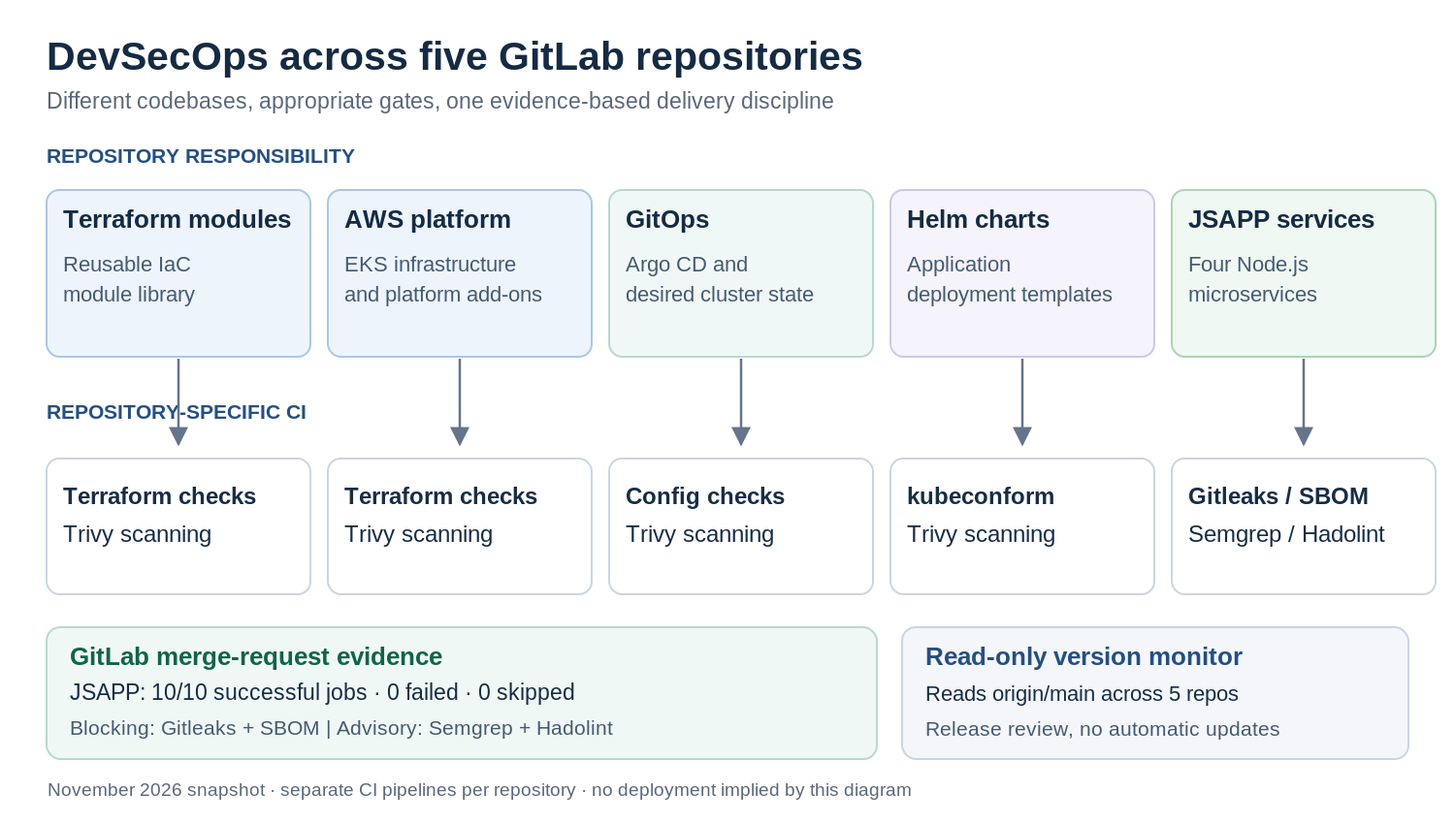
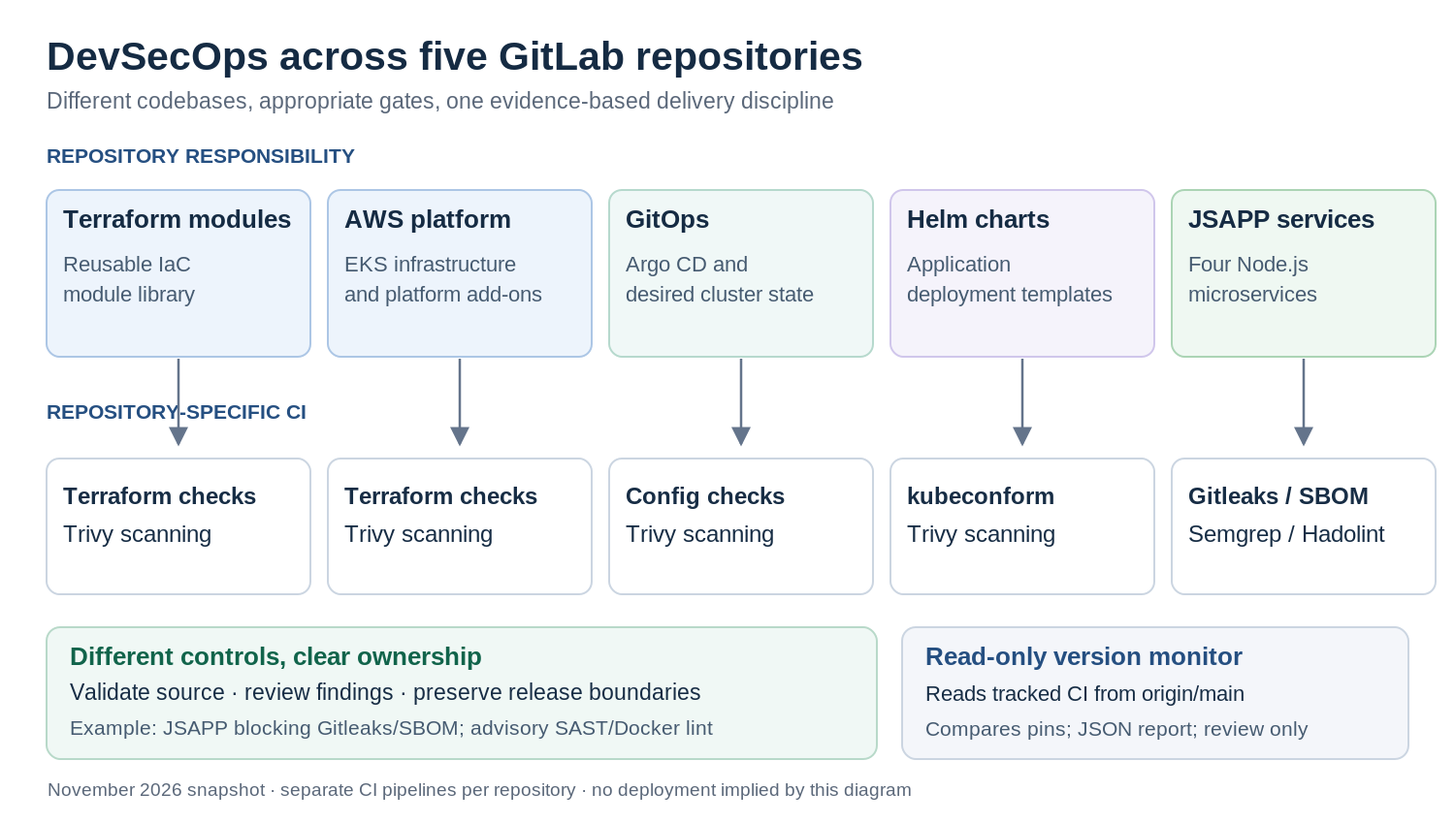
docs: expand DevSecOps case study with pipeline controls and version monitoring

Changed region(s): [[0.0307, 0.7647, 0.4907, 0.9176], [0.644, 0.8259, 0.8893, 0.9176]]

diff --git a/case-studies/gitlab-devsecops-five-repositories/README.md b/case-studies/gitlab-devsecops-five-repositories/README.md
@@ -1,152 +1,210 @@
-# Building DevSecOps Gates Across Five GitLab Repositories
+# Engineering DevSecOps Pipelines Across Five GitLab Repositories
 
-> A security baseline that preserves existing Terraform, GitOps and semantic-version release responsibilities
+> Five different delivery responsibilities, five fit-for-purpose CI baselines, and one read-only scanner-version monitor
 
-![Five GitLab repositories with repository-specific security checks, independent merge gates and a read-only tool-version monitor](assets/devsecops-five-repositories.png)
+![Repository-specific CI controls across Terraform modules, AWS platform, GitOps, Helm and Node.js services, plus an independent version monitor](assets/devsecops-five-repositories.png)
 
 ## Context
 
-The [JSAPPINF platform](https://github.com/jansoltys9/jsappinf-platform-portfolio) spans five repositories with different responsibilities: reusable Terraform modules, AWS platform infrastructure, Kubernetes GitOps configuration, Helm charts and four Node.js microservices. The existing CI/CD system already supported repository-specific validation and an application release flow. The task was to add **consistent, evidence-based security checks** without turning every repository into an identical pipeline or making CI mutate infrastructure.
+[JSAPPINF](https://github.com/jansoltys9/jsappinf-platform-portfolio) separates reusable Terraform modules, AWS platform infrastructure, Kubernetes desired state, application Helm charts and Node.js microservices into **five private GitLab repositories**. The practical DevSecOps objective was not to copy one security workflow everywhere. It was to make each pipeline check the types of defects that matter for its repository, while keeping infrastructure changes, image publication and GitOps promotion outside routine security validation.
 
-The implementation was intentionally compatible with **GitLab Free**, pinned scanner versions and the existing separation between CI execution, release decisions and GitOps reconciliation.
+The solution uses **GitLab Free**, pinned tool versions, reviewable merge-request jobs and a separate local Python inventory that tracks scanner-version drift. The public case study describes the controls and engineering trade-offs; it does not publish private CI configuration, credentials or runtime settings.
 
-**Evidence boundary:** this case study is based on supplied GitLab merge and pipeline results, local security-scan outputs and the five-repository monitor run of 19 November 2026. The author did not independently re-run a deployed EKS environment or inspect live production security settings for this review. A successful scan job is evidence that the configured job completed, not proof that an entire platform is vulnerability-free.
+**Evidence boundary:** the control descriptions come from the recorded project implementation, supplied job metadata and the locally executed version monitor in November 2026. Detailed CI job definitions were not independently retrieved for every repository during this write-up. Where the exact job name or enforcement policy was not evidenced, the text describes the control's purpose without claiming an unverified blocking gate. Passing CI is not a production security certification.
 
 ## Original State
 
-The repositories had different development and delivery concerns:
+The delivery responsibilities were deliberately separated:
 
-| Repository | Primary responsibility | Relevant verification domain |
+| Repository | Owns | Typical failure to catch before merge |
 |---|---|---|
-| `terraform-modules` | Reusable infrastructure modules | Terraform validation and infrastructure/security analysis |
-| `jsappinf-platform` | AWS EKS and platform infrastructure | Terraform validation and IaC/secret analysis |
-| `jsappinf-gitops` | Argo CD Applications and desired cluster state | GitOps configuration and security scanning |
-| `helmchartsappjs` | Application Helm charts | Chart/Kubernetes schema validation and scanning |
-| `JSAPP` | UI, user, product and order microservices | Service tests, secrets, code, Dockerfiles and software inventory |
+| `terraform-modules` | Reusable Terraform module interfaces | Invalid HCL, broken module validation, leaked credentials, dangerous IaC patterns |
+| `jsappinf-platform` | AWS/EKS foundation and platform add-ons | Invalid Terraform composition, unwanted CI infrastructure actions, secrets and IaC risks |
+| `jsappinf-gitops` | Argo CD desired state for environments | Risky or inconsistent GitOps configuration and committed secrets |
+| `helmchartsappjs` | Reusable Kubernetes application charts | Invalid rendered Kubernetes resources or unsafe configuration |
+| `JSAPP` | UI, user, product and order Node.js services | Service contract regressions, exposed secrets, source-code/Dockerfile findings and missing inventory |
 
-The challenge was **coverage consistency and maintainability**, not a claim that the repositories had no testing or security controls beforehand. The existing application flow used semantic versions, image builds and a separate GitOps promotion step; those responsibilities were retained.
+The application release path already used service-specific semantic versions. CI validation, container build/scan/push, Helm configuration updates and Argo CD reconciliation have **different owners and triggers**. Security-only changes should not silently deploy workloads or apply Terraform.
 
 ## Problem or Limitation
 
-There were three practical failure modes to solve:
+Three recurring problems motivated the work:
 
-1. **Different repositories needed different security gates.** A Terraform project cannot use the same meaningful checks as a Node.js service or a Helm chart repository.
-2. **A green pipeline could be misleading.** Advisory jobs may fail without failing the whole pipeline; a job's result, `allow_failure` policy and artifacts all need to be evaluated.
-3. **Security tools themselves need operational discipline.** Scanner versions drift, developer worktrees can be dirty, Docker Hub pulls can time out, and a generic secret rule can flag a non-authentication value in historical documentation.
+1. **Security coverage is domain-specific.** Terraform validation cannot replace a Dockerfile lint or a Kubernetes schema check; a green job in one repository says nothing about another.
+2. **A pipeline can be green while findings still need review.** `allow_failure: true` jobs, advisory IaC reports and generated SBOMs must be interpreted differently from blocking gates.
+3. **Pinned scanners drift over time.** CI files can contain versions in nested includes; checking the current developer checkout instead of merged `origin/main` can report the wrong baseline, especially with dirty worktrees.
 
-A final requirement was to keep the workflow practical: group findings, perform local checks once, apply a reviewed fix, push once and use GitLab as the independent final verifier.
+The implementation therefore combined clear repository-level responsibilities, a small number of explicitly enforced security gates and a separate version-monitoring workflow.
 
 ## Decision and Responsibility Model
 
-The baseline was implemented **per repository**, with a common security intent rather than a single copy-pasted job list.
+```text
+Change → repository-specific MR checks → reviewed merge
+                                    |
+                      no automatic AWS / Kubernetes mutation
 
-| Layer | Owns | Does not own |
-|---|---|---|
-| Repository CI | Validation, pinned scanner execution, test results and artifacts | Unreviewed application releases or direct cluster changes |
-| Developer preflight | Faster local diagnosis, classification and batched remediation | Replacing the independent GitLab merge gate |
-| GitLab merge request | Reviewable code change, recorded job outcome and approval/merge workflow | Asserting that a passed job has zero findings without reading its report |
-| Semantic-version release flow | Image/version lifecycle after applicable release conditions | Implicit GitOps changes from a security-only merge request |
-| GitOps / platform runtime | Desired-state reconciliation and runtime operations | Acting as a secret-scanning mechanism for Git history |
-| Local version monitor | Read-only inspection of `origin/main` and upstream release candidates | Automatic dependency updates, merges, deployments or a scheduled service |
+Separate application release → build → image scan → registry push
+                             → reviewed chart / GitOps update → Argo CD
+
+Independent local monitor → read origin/main CI definitions
+                          → compare pinned versions to releases
+                          → JSON review report (no automatic update)
+```
+
+A **blocking** check must succeed for the MR to pass. An **advisory** check runs and reports, but can be accepted temporarily while findings are triaged. Neither a successful advisory job nor an SBOM artifact is a claim of zero security issues.
 
 ## Implementation
 
-### Repository-specific security baseline
+### Pipeline 1 — `terraform-modules`: reusable infrastructure contracts
 
-The infrastructure repositories retained Terraform-oriented validation and Trivy-based checks. The GitOps and Helm repositories retained configuration-oriented checks, including `kubeconform` in the chart workflow. The application repository added a dedicated security include:
+This repository is a module library, not an AWS environment to be applied by CI. Its baseline covers the reusable module inventory and Terraform syntax/validation for **ten modules**, while retaining separate versioning of modules.
 
-```yaml
-include:
-  - local: devsecops/portfolio-security.yml
+| Control | What it checks | Enforcement / output |
+|---|---|---|
+| `fmt` | Terraform formatting across the reusable modules; keeps HCL review diffs predictable | Blocking |
+| `validate` | `terraform init -backend=false` followed by `terraform validate` for each module; validates configuration without initializing a remote state backend | Blocking; provider downloads may occur, but no AWS deployment |
+| `terraform:security-contract` | Ensures expected module/CI boundaries and rejects infrastructure `plan`, `apply` or `destroy` operations in this validation workflow | Blocking |
+| `terraform:secrets` | Trivy secret detection on repository content | Blocking |
+| `terraform:iac-audit` | Trivy Terraform/IaC analysis, with HIGH/CRITICAL findings captured as reviewable evidence | **Advisory**; findings require triage |
+
+**Why this matters:** a module can validate without being safe to deploy; formatting and `validate` address syntax/contracts, whereas secret and IaC checks cover a different risk class. Conversely, an advisory IaC finding does not grant permission to change infrastructure automatically. One-off `migration-scenarios` were intentionally outside this reusable-module gate.
+
+### Pipeline 2 — `jsappinf-platform`: AWS/EKS platform composition
+
+This repository composes the infrastructure stack and platform runtime. The CI baseline validates the Terraform source **without invoking a real AWS plan, apply or destroy**.
+
+| Control | What it checks | Enforcement / output |
+|---|---|---|
+| Terraform format | Consistent HCL and reviewable changes | CI validation |
+| Terraform init / validate | Initializes the platform stack in validation mode and verifies the configuration contract | CI validation; not a deployment |
+| Security contract | Prevents unsafe CI responsibility expansion, such as an unreviewed infrastructure lifecycle action | CI security check |
+| Trivy secret scan | Detects credential-shaped material committed to the repository | CI security check |
+| IaC audit | Flags potentially risky infrastructure configuration (for example, security-hardening concerns) | Findings documented for follow-up, not automatically "fixed" |
+
+The baseline's merge-request run had five successful CI jobs, while **separate IaC findings** were explicitly recorded for a later hardening review. They are not presented as remediated merely because the pipeline passed. This distinction is particularly important with ephemeral DEV infrastructure and sensitive local `.tfvars` that must never be published.
+
+### Pipeline 3 — `jsappinf-gitops`: desired-state configuration
+
+This repository stores environment manifests, Argo CD Applications and Helm values. Its security baseline is concerned with **what would be declared as desired state**, not with applying it to a live cluster during a code scan.
+
+| Control area | Practical verification purpose | Evidence / boundary |
+|---|---|---|
+| Repository configuration checks | Catch malformed or inconsistent GitOps definitions before they are reconciled by Argo CD | GitOps validation belongs here; exact job-specific rule set is not reproduced in this public review |
+| Trivy scanning | Inspect tracked configuration for issues detectable by the configured scanner | The merged CI source was found and `aquasec/trivy:0.76.2` was inventoried |
+| Change review | Keep DEV/STAGE/PROD values and application promotion changes traceable | Argo CD sync and cluster readiness are separate runtime checks |
+
+**Why this matters:** passing a repository scan does not prove that Argo CD will report `Healthy` after reconciliation. Network reachability, secrets resolution and cluster-specific CRDs require runtime verification. The DevSecOps work did not claim to exercise those dependencies.
+
+### Pipeline 4 — `helmchartsappjs`: Kubernetes application packaging
+
+Helm charts are executable deployment templates. Source YAML that appears valid can still produce invalid Kubernetes manifests after templating, so chart validation belongs at this layer.
+
+| Control area | What it is intended to catch | Evidence / boundary |
+|---|---|---|
+| Helm/chart validation | Chart structure, templates and values-related configuration errors | Repository-specific CI validation; this review does not claim a complete values/cluster matrix |
+| `kubeconform` | Rendered Kubernetes API resource schema problems, subject to available schemas and CRD support | Tool detected in merged CI source; schema checks are not live-cluster tests |
+| Trivy scanning | Security issues in chart/configuration content covered by the CI scan | `aquasec/trivy:0.76.2` pin detected |
+| Release boundary | Prevent validation jobs from silently changing GitOps-managed chart versions | Version promotion remains a separate reviewed action |
+
+This repository had **seven CI-related tracked files** in the monitor inventory. That is a file inventory, not a count of executed validation jobs. Helm lint/schema checks complement rather than replace functional deployment tests.
+
+### Pipeline 5 — `JSAPP`: four Node.js microservices
+
+The application repository contains UI, user, product and order services. The DevSecOps baseline was **additive**: it introduced dedicated security jobs alongside the existing service, DB lifecycle and release-helper validation without replacing the semantic-version release process.
+
+| Job / control | What it does | MR enforcement |
+|---|---|---|
+| `validate_service_merge_request` (per service) | Checks the changed service against the repository's MR/contract validation rules | Blocking in the supplied MR |
+| `validate_db_lifecycle` | Tests/validates DB lifecycle helpers and expected behavior | Blocking |
+| `validate_release_helpers` | Checks scripts used in semantic-version release handling | Blocking |
+| `devsecops:gitleaks` | Scans Git history for credential-shaped material; `--redact` prevents raw values in scanner output | **Blocking** (`allow_failure: false`) |
+| `devsecops:semgrep` | Runs configured static-analysis rules against application source; produces JSON report for review | **Advisory** (`allow_failure: true`) during rollout |
+| `devsecops:hadolint` | Lints application Dockerfiles against Docker build/container best practices | **Advisory** (`allow_failure: true`) during rollout |
+| `devsecops:sbom` | Uses Trivy to generate a **CycloneDX SBOM** of project dependencies and artifacts | **Blocking** (`allow_failure: false`); downloadable artifact |
+
+Pinned scanner images include Gitleaks `8.28.0`, Semgrep `1.178.0`, Hadolint `2.12.0-alpine` and Trivy `0.76.2`. The repository also contains an older Trivy `0.76.1` reference in its separate CI definitions; the monitor reports both for review rather than silently treating all occurrences as the same active job.
+
+The **release path** remains distinct from these merge-request checks: semantic-version validation → service image build → image scan → approved push to ECR → separate Helm/GitOps version update → Argo CD reconciliation. An MR security run does not itself mean a container was built, pushed or deployed.
+
+Four additional **local `npm audit`** evaluations (one per service) passed at the time of assessment. They are point-in-time dependency evidence, not a substitute for continually maintained CI security gates.
+
+### Example: investigating a Gitleaks detection without weakening the scanner
+
+The history scan detected a `generic-api-key` pattern in an HTTP request example for `POST /orders`. Targeted inspection located the **`Idempotency-Key`** header rather than a GitLab access token. Idempotency keys identify repeated requests; they are not inherently authentication credentials. The original masked value's provenance was not independently established.
+
+The fix preserved the API documentation with a clearly illustrative `Idempotency-Key: order-create-example-001`, then limited the historical Gitleaks exception to **one fingerprint**. No file-wide, rule-wide or history-wide ignore was used. Local Git-history and working-tree scans subsequently passed, as did the GitLab Gitleaks job. The decision was deliberately narrow: if independent evidence later identifies a real exposed credential, the historical exception would not replace revocation or incident response.
+
+### Central tool-version monitor — how it works
+
+A separate Python utility is the maintenance layer for these **five different pipelines**. It is an **inventory and review aid**, not a security scanner or an automated update bot.
+
+| Step | Implementation | Why it matters |
+|---|---|---|
+| 1. Discover repositories | Uses a configured list of the five local Git repositories | Restricts the inventory to the relevant project |
+| 2. Select source | Prefers `refs/remotes/origin/main`; flags fallback to local `main` or `HEAD` | Prevents dirty feature branches from being mistaken for merged CI |
+| 3. Read CI definitions | Uses `git ls-tree` and `git show` to inspect tracked files, including nested CI configs and includes | Does not need to check out or modify the source tree |
+| 4. Extract tools and pins | Recognizes images for Terraform, Trivy, Gitleaks, Semgrep, Hadolint and other configured tools | Shows what versions are referenced across repositories |
+| 5. Optionally compare releases | Uses public GitHub release metadata with `--online` | Identifies **newer-version review candidates**, not proven vulnerabilities |
+| 6. Report | Prints per-repository inventory and writes JSON when `--output` is provided | Makes evidence reusable for an upgrade backlog |
+
+The command used in the local maintenance workspace was:
+
+```bash
+mkdir -p "$HOME/Project/_local-reports/devsecops-version-monitor"
+py -3.12 "$HOME/Project/_devsecops_batch_package/today-closeout/scripts/monitor_versions.py" \
+  --base "$HOME/Project" \
+  --online \
+  --output "$HOME/Project/_local-reports/devsecops-version-monitor/versions.json"
 ```
 
-The JSAPP merge-request baseline included the following jobs:
+The inventory also reports each worktree as `CLEAN` or `DIRTY` **without changing it**. It does not run `git fetch`: `origin/main` is the *locally known* remote-tracking ref, so freshness of that ref must be managed separately. Release lookups may be unavailable or rate-limited; in that case the upstream result is **unverified**, not a safe-to-upgrade decision.
 
-| Job | Role | Merge-request failure policy |
+#### Example version-review report
+
+During the 19 November 2026 run, all five repositories were discovered and the monitor surfaced six version-review items:
+
+| Pinned example | Newer release observed | Required action |
 |---|---|---|
-| `devsecops:gitleaks` | Git history secret detection | Blocking |
-| `devsecops:semgrep` | Static source-code analysis | Advisory during initial rollout |
-| `devsecops:hadolint` | Dockerfile linting | Advisory during initial rollout |
-| `devsecops:sbom` | CycloneDX software bill of materials | Blocking |
+| Terraform `1.17.0` (module and platform CI) | `1.17.2` | Review compatibility and validate both pipelines before updating |
+| Trivy `0.76.1` (one JSAPP reference) | `0.76.2` | Identify the active CI reference before removing or updating the older pin |
+| Hadolint `2.12.0-alpine` | `2.15.1` | Review rule changes and assess Dockerfile findings |
+| Semgrep `1.178.0` | `1.186.0` | Review scanner/rule compatibility and CI output |
+| Gitleaks `8.28.0` | `8.30.1` | Revalidate history-scan behavior and the fingerprint exception |
 
-The security jobs were added alongside—not instead of—service merge-request checks, DB lifecycle validation and release-helper validation. The pipeline used explicitly pinned tool images rather than floating `latest` tags.
-
-**Important distinction:** generating a CycloneDX SBOM records a software inventory; by itself it does not prove that the listed components have no vulnerabilities. Similarly, an advisory Semgrep or Hadolint job can complete successfully while still producing reviewable warnings.
-
-### Challenge: a historical `Idempotency-Key` matched a generic secret rule
-
-The first JSAPP Gitleaks run failed on **one finding in a scan of 158 commits**. The report identified `generic-api-key` at `docs/order-correctness.md`, line 13, in historical commit `088bda2616`.
-
-A targeted inspection showed that the flagged line represented the HTTP `Idempotency-Key` header in a `POST /orders` example. That header identifies a request for duplicate-operation protection; it is **not, by its role, an authentication bearer token or a GitLab repository access token**. References to idempotency were found in the order-service implementation and tests.
-
-The scanner had redacted the match, so the original value's provenance and validity were not independently established. The response therefore avoided both extremes: declaring a confirmed credential leak and blindly disabling secret scanning.
-
-The reviewed remediation was to:
-
-1. Replace the current documentation value with the visibly illustrative `Idempotency-Key: order-create-example-001`.
-2. Preserve the historical commit rather than rewriting a shared repository history.
-3. Add **one exact Gitleaks fingerprint** to `.gitleaksignore` for the reviewed historical match—not an exception for the entire file, rule or repository.
-4. Verify Gitleaks against **Git history and the working directory** locally, then verify the blocking job again in GitLab CI.
-
-This is a narrowly documented false-positive handling decision for a non-authentication header. If separate evidence ever establishes that the historical value was a real secret, the ignore entry would not substitute for appropriate credential revocation and incident handling.
-
-### Challenge: local scanner availability did not equal scan success
-
-A local Gitleaks Docker image was missing, and the Docker Hub pull repeatedly timed out. The local preflight correctly reported **`BLOCKED`**, not `PASS`. A verified native Windows Gitleaks `8.28.0` binary was then used to inspect the same Git history, without modifying the original service worktree.
-
-The broader batch diagnostic reported local Semgrep, Hadolint and SBOM runs as blocked when their images were unavailable. Instead of retrying downloads indefinitely, the team used the actual GitLab pipeline outcomes as the independent CI evidence. Four Node.js `npm audit` checks were also run together against tracked lockfiles; they reported **zero vulnerabilities at that point in time**.
-
-### Central tool-version monitoring
-
-A separate, read-only local monitor was built to inspect security/validation tool pins across all five repositories. Crucially, it reads **`refs/remotes/origin/main`** instead of the currently checked-out branch, so dirty development worktrees do not distort what is deployed as the repository baseline.
-
-The monitor inspects nested CI files and compares pinned versions with upstream release information. On 19 November 2026 it discovered CI definitions in all five repositories and returned **six newer-release review candidates**, including Terraform, Trivy, Hadolint, Semgrep and Gitleaks. These were upgrade candidates, **not confirmed vulnerabilities**.
-
-This monitor was run locally. At the time of this case study it had **no automatically scheduled execution or automatic version-bump/push behavior**.
+These are **observations from that date**, not a live current-version check. Changing a tool version is a separate reviewed change with its own test evidence. The monitor does **not** create branches, edit CI files, open merge requests, schedule itself, alter credentials or deploy infrastructure.
 
 ## Validation
 
-The five baseline merge requests were merged into their respective default branches. The final JSAPP security merge request was **!10**, incorporating source commit `5a22622b` and merge commit `8f57bc3` on 19 November 2026.
+The five repository baselines were merged through their respective review workflows. For the JSAPP security pipeline, exported GitLab job metadata confirmed that **Gitleaks, Semgrep, Hadolint, SBOM and the existing merge-request validations executed successfully**. The SBOM artifact was present. Semgrep and Hadolint were still advisory, so their status alone does not establish that the source has no warnings.
 
-The exported GitLab job metadata for **pipeline `#3088559122`** established the following for that commit:
+The local version-monitor run found tracked CI files in all five repositories and produced a JSON inventory with review candidates. No AWS or Kubernetes deployment was performed as part of the validation described here.
 
-| Evidence | Observed result |
-|---|---|
-| Pipeline | `success`, merge-request event |
-| Individual job statuses | **10 successful, 0 failed, 0 skipped** |
-| Gitleaks | `success`, `allow_failure: false` |
-| Semgrep | `success`, `allow_failure: true` |
-| Hadolint | `success`, `allow_failure: true` |
-| CycloneDX SBOM | `success`, `allow_failure: false`; artifact archive present |
-| Four microservice merge-request validation jobs | All successful |
-| DB lifecycle and release helpers | Both successful |
-| Local `npm audit` (four services) | All passed with zero reported vulnerabilities in that snapshot |
-| Local Gitleaks after remediation | Git history and working-directory scans passed |
-
-The SBOM job exposed an artifact archive of approximately 36 KB; this case study does not claim to have independently validated the contents of its CycloneDX document. The JSON job export also did not contain complete Semgrep/Hadolint findings. **`success` describes job execution, not an independently verified zero-warning report.**
+**Evidence limits:** full advisory scanner reports and the detailed contents of the generated CycloneDX SBOM were not independently reviewed in this case study. A successful job proves execution under its configured conditions, not future vulnerability absence. Live DEV runtime and DAST testing are separate engineering scopes.
 
 ## Result
 
-The baseline reached all five repositories without requiring an AWS or Kubernetes operation for the security-only change. In JSAPP, the historical Gitleaks blocking issue was handled through a narrow, reviewable exception; the completed MR pipeline had ten successful jobs; and the release/Helm/GitOps responsibilities remained separate.
+The practical outcome is a **repository-specific security review layer** instead of a generic, one-size-fits-all pipeline:
 
-The version monitor added visibility into scanner drift without automatically changing infrastructure or triggering new pipelines.
+- Infrastructure modules and AWS platform CI distinguish Terraform correctness, secrets and IaC-risk reporting.
+- GitOps and Helm pipelines focus on configuration and Kubernetes deployment contracts, without running clusters during source validation.
+- Application CI adds history secret scanning, static analysis, Dockerfile checks and SBOM creation while preserving service validation and release boundaries.
+- A read-only monitor identifies potential scanner-version drift across all five merged CI configurations for later human review.
 
 ## Current Status and Limits
 
-- **Implemented:** five-repository security/validation baselines, JSAPP blocking Gitleaks and SBOM jobs, advisory Semgrep/Hadolint, read-only version monitoring.
-- **Verified:** merged baseline changes; final JSAPP 10/10-success MR pipeline; four local npm audit snapshots; local Gitleaks history and directory checks.
-- **Not claimed:** a production penetration test, live runtime validation, DAST coverage, zero outstanding IaC findings, zero Semgrep warnings, or zero vulnerabilities in future dependency versions.
-- **Follow-up:** review advisory and infrastructure findings, schedule the monitor if useful, and assess scanner upgrades separately from release work.
+**Implemented:** baseline CI controls in five repositories; Gitleaks/Trivy SBOM blocking and Semgrep/Hadolint advisory in JSAPP; a local, read-only version monitor.
+
+**Not claimed:** automated scanner upgrades, a scheduled central version-monitor job, validated SBOM contents, zero outstanding IaC warnings, guaranteed Kubernetes runtime health, production penetration testing or full DAST coverage. No public GitHub repository contains the private CI source or runtime credentials.
 
 ## Technologies
 
-**GitLab CI/CD, Git, Terraform, Trivy, Gitleaks, Semgrep CE, Hadolint, CycloneDX SBOM, Node.js/npm, Docker, Helm, kubeconform, Argo CD and AWS EKS** (the latter as platform context, not an environment exercised in this security-only change).
+GitLab CI/CD, Git, Terraform, Trivy, Gitleaks, Semgrep CE, Hadolint, CycloneDX, Node.js/npm, Docker, Helm, kubeconform, Argo CD and AWS EKS (platform context, not a runtime exercised by this case study).
 
 ## Key Lessons
 
-- **A green pipeline is a starting point, not a security conclusion.** Inspect individual job status, failure policy and artifacts.
-- **Blocking and advisory checks have different jobs.** Block on well-understood critical gates; review advisory findings without hiding them.
-- **A detection is not automatically an incident.** Classify the actual data and its purpose before suppressing a specific false positive—or revoking unrelated credentials.
-- **`BLOCKED` must never be reported as `PASS`.** A scanner that could not start did not validate the code.
-- **Read the version baseline from `origin/main`, not a dirty worktree.** Monitoring should reflect merged repository configuration.
-- **Security work should respect delivery boundaries.** CI validates; release approvals, image promotion and GitOps remain separately controlled.
+- **Different codebases need different gates.** Terraform module validation, Kubernetes manifest validation and application source scanning answer different questions.
+- **Explain the control, not merely the tool name.** A scan only makes sense when its failure policy, report and engineering owner are known.
+- **Advisory is not invisible.** A green pipeline may still carry reviewable IaC or static-analysis findings.
+- **`BLOCKED` is not `PASS`.** A local scanner that could not download did not inspect the source.
+- **Monitor the merged baseline.** Read CI definitions from `origin/main`, record stale/fallback refs and keep developer worktrees untouched.
+- **Keep upgrades and deployments as deliberate decisions.** Version drift should open a review, never silently alter infrastructure or releases.

diff --git a/README.md b/README.md
@@ -37,9 +37,9 @@ Upgrading a Terraform-managed Argo CD control plane after an EKS 1.35 compatibil
 
 ### GitLab DevSecOps Security Baseline
 
-[Building DevSecOps Gates Across Five GitLab Repositories](case-studies/gitlab-devsecops-five-repositories/README.md)
+[Engineering DevSecOps Pipelines Across Five GitLab Repositories](case-studies/gitlab-devsecops-five-repositories/README.md)
 
-An evidence-led security rollout across Terraform, platform infrastructure, GitOps, Helm and Node.js services: pinned tools, blocking and advisory checks, a reviewed Gitleaks false-positive candidate, ten successful JSAPP merge-request jobs and a read-only tool-version monitor.
+A practical engineering walkthrough of five repository-specific GitLab CI pipelines: what each validation and security control checks, how findings are handled, which gates block merging, and how a separate read-only monitor tracks pinned security tool versions.
 
 ## Planned Case Studies
 
